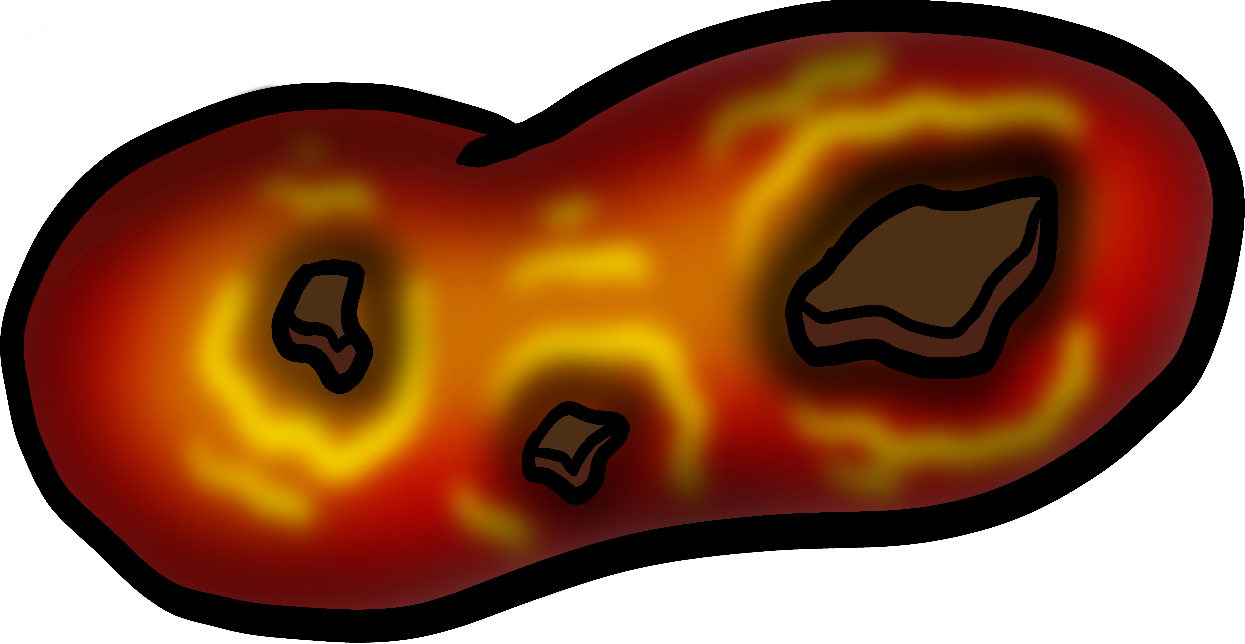
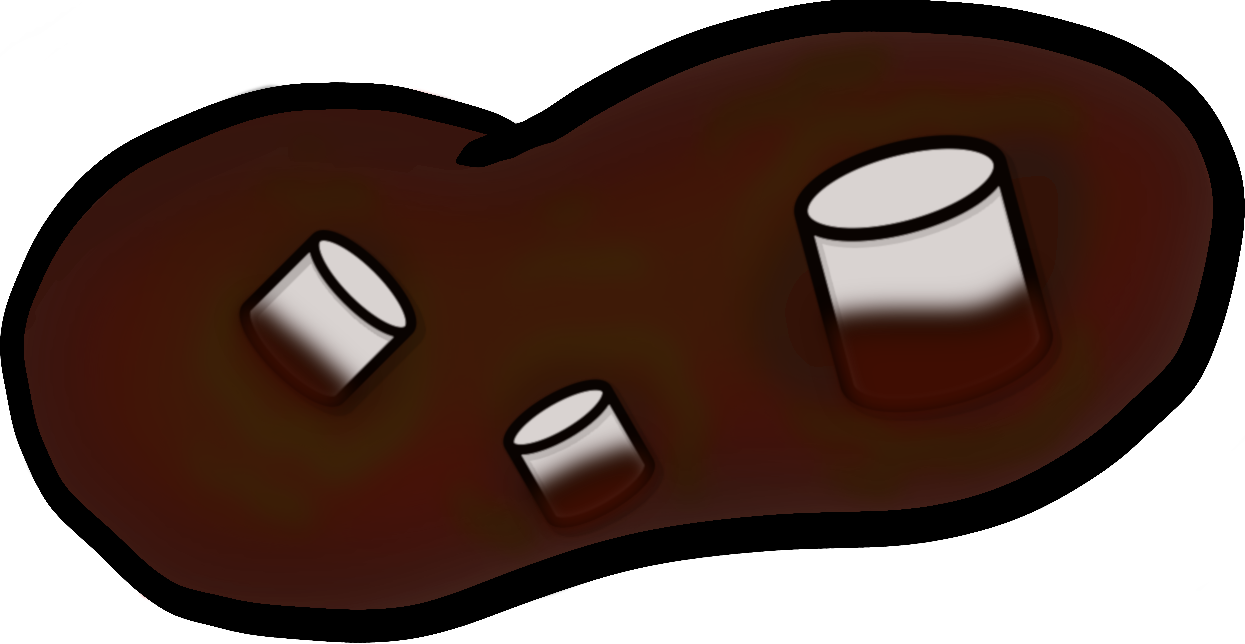
Way more
Minimap and map objects (pond is temporary

diff --git a/client/src/game/hud/Minimap.ts b/client/src/game/hud/Minimap.ts
@@ -90,11 +90,11 @@ class Minimap extends HudComponent {
     for (const biome of map.biomes) {
       let color = 0x4854a2;
       switch (biome.type) {
-        case BiomeTypes.Fire: color = 0x9a2c13; break;
-        case BiomeTypes.Earth: color = 0x1aad41; break;
+        case BiomeTypes.Fire: color = 0x87692B; break;
+        case BiomeTypes.Earth: color = 0x296D43; break;
         case BiomeTypes.Ice: color = 0xffffff; break;
-        case BiomeTypes.River: color = 0x4854a2; break;
-        case BiomeTypes.Safezone: color = 0x999999; break;
+        case BiomeTypes.River: color = 0xA9E0FF; break;
+        case BiomeTypes.Safezone: color = 0x197A48; break;
       }
 
       const graphics = this.game.add.graphics();

diff --git a/server/src/game/entities/Player.js b/server/src/game/entities/Player.js
@@ -312,7 +312,7 @@ class Player extends Entity {
           case Types.Entity.Chimera: reason = 'A Chimera'; break;
           case Types.Entity.Roku: reason = 'A Roku'; break;
           case Types.Entity.Snowball: reason = 'Yeti Boss'; break; // the yeti boss throws snowballs
-          case Types.Entity.Fireball: reason = 'The Roku'; break; // the roku throws fireballs
+          case Types.Entity.Fireball: reason = 'Pudding Monster Roku'; break; // the roku throws fireballs
         }
       }
       this.remove(reason, entity.type === Types.Entity.Player ? Types.DisconnectReason.Player : Types.DisconnectReason.Mob);

diff --git a/client/src/game/biomes/Safezone.ts b/client/src/game/biomes/Safezone.ts
@@ -7,7 +7,7 @@ class Safezone extends Biome {
     const size = 64;
     const texture = scene.textures.createCanvas('safezone', size, size);
     const ctx = texture!.getContext();
-    ctx.fillStyle = '#999999';
+    ctx.fillStyle = '#197A48';
     ctx.fillRect(0, 0, size, size);
     texture!.refresh();
   }
